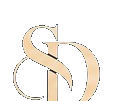
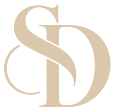
Take RSVP off the public site and fix the SD monogram
- churchRsvp.open is now false: the public homepage, invitation page and
  menus no longer show an RSVP, and POST /rsvp redirects home. Guests
  RSVP only on their private invitation (/i/CODE).
- The gold monogram PNG had the bottom of both letters cropped off. Both
  monograms are now rebuilt from the complete navy artwork: transparent
  D counter, stray speck removed, tight crop. img height attr matches.
- Smoke test now asserts there is no RSVP on the public pages.

Claude-Session: https://claude.ai/code/session_01CnJ3p6ptEkStoWQYyKLRUg

diff --git a/functions/test/smoke.js b/functions/test/smoke.js
@@ -31,19 +31,12 @@ const store = require('../src/store');
   assert(!home.includes('/find'), 'no invitation-code lookup on public page');
   assert.equal((await req('/find?code=AAAAAA')).status, 404);
 
-  // Public church RSVP + update by phone
+  // RSVP lives only on private invitations: none on the public site
+  assert(!/rsvp/i.test(home), 'no RSVP on public homepage');
+  assert(!/rsvp/i.test(await (await req('/invitation')).text()), 'no RSVP on public invitation page');
   r = await req('/rsvp', form({ name: 'Bisi Ade', phone: '0803 111 2222', attending: 'yes', party: '3' }));
-  assert.equal(r.status, 200);
-  assert((await r.text()).includes('saved your place'));
-  r = await req('/rsvp', form({ name: 'Bisi Ade', phone: '+234 803 111 2222', attending: 'yes', party: '2' }));
-  assert((await r.text()).includes('earlier reply was updated'));
-  r = await req('/rsvp', form({ name: '', phone: '' }));
-  assert.equal(r.status, 400);
-  r = await req('/rsvp', form({ name: 'Bot', phone: '1', website: 'spam' }));
-  assert.equal(r.status, 200);
-  const church = await store.publicRsvps();
-  assert.equal(church.length, 1, 'deduped by phone, bot ignored');
-  assert.equal(church[0].party, 2);
+  assert.equal(r.status, 303);
+  assert.equal((await store.publicRsvps()).length, 0, 'public RSVP is closed');
 
   // Admin
   assert.equal((await req('/admin')).status, 302);
@@ -88,12 +81,10 @@ const store = require('../src/store');
   const d = await r.json();
   const t = d.guests.find((x) => x.code === g.code);
   assert(t.openedAt && t.openCount === 2 && t.checkedInAt && t.rsvp === 'yes');
-  assert.equal(d.church.length, 1);
-  assert(d.activity.some((a) => a.type === 'church'));
+  assert.equal(d.church.length, 0);
   r = await req('/api/admin/export.csv', { headers: { cookie: admin } });
   assert((await r.text()).includes('Ade, Jnr'));
-  r = await req('/api/admin/church.csv', { headers: { cookie: admin } });
-  assert((await r.text()).includes('Bisi Ade'));
+  assert.equal((await req('/api/admin/church.csv', { headers: { cookie: admin } })).status, 200);
   r = await req('/calendar/church.ics');
   assert((await r.text()).includes('DTSTART:20261217T090000Z'));
   assert((await (await req('/robots.txt')).text()).includes('Disallow: /i/'));

diff --git a/functions/src/pages.js b/functions/src/pages.js
@@ -23,8 +23,8 @@ const sprig = (cls) => `<svg class="sprig ${cls}" viewBox="0 0 200 200" aria-hid
   ${[[140, 128], [146, 138], [134, 140]].map(([x, y]) => `<circle cx="${x}" cy="${y}" r="3" fill="#d2b07a"/>`).join('')}
 </svg>`;
 
-const mono = `<img class="mono" src="/img/monogram-gold.png" alt="Sarah and Damilare’s intertwined monogram" width="160" height="132">`;
-const monoNavy = `<img class="mono" src="/img/monogram-navy.png" alt="Sarah and Damilare’s intertwined monogram" width="160" height="132">`;
+const mono = `<img class="mono" src="/img/monogram-gold.png" alt="Sarah and Damilare’s intertwined monogram" width="160" height="154">`;
+const monoNavy = `<img class="mono" src="/img/monogram-navy.png" alt="Sarah and Damilare’s intertwined monogram" width="160" height="154">`;
 const rule = `<div class="rule" aria-hidden="true"><span>✦</span></div>`;
 
 // Line icons for the bottom bar

diff --git a/functions/src/config.js b/functions/src/config.js
@@ -60,8 +60,9 @@ module.exports = {
     // e.g. 'Please be seated by 9:45 AM.'
   ],
 
-  // Public RSVP for the church wedding. Set open: false to close it.
-  churchRsvp: { open: true, maxParty: 6 },
+  // Public RSVP for the church wedding. Off: RSVPs are only taken on private invitations (/i/CODE).
+  // Set open: true to bring the RSVP form back on the public site.
+  churchRsvp: { open: false, maxParty: 6 },
 
   // Gift registry on withjoy.com. Paste your registry link here.
   registryUrl: '',

diff --git a/README.md b/README.md
@@ -2,16 +2,16 @@
 
 | URL | Who | What |
 | --- | --- | --- |
-| `/` | **Public** | Church wedding website: 10 AM ceremony at RCCG Garden of Peace, directions, add-to-calendar, story, colours, open **church RSVP**, link to your **Joy gift registry**, contacts. No traditional-wedding details appear here. |
+| `/` | **Public** | Church wedding website: 10 AM ceremony at RCCG Garden of Peace, directions, add-to-calendar, story, colours, link to your **Joy gift registry**, contacts. No traditional-wedding details and no RSVP appear here. |
 | `/i/CODE` | **Private**, only people you send a link to | Traditional wedding & reception invitation with the guest's name, RSVP, QR **access card** and **driver meal card**. Not linked anywhere, `noindex`, blocked in `robots.txt`, unguessable 6-character codes. |
-| `/admin` | You two + planners | Invitation desk: traditional guest list, WhatsApp sending, sent → opened → RSVP → arrived tracking, CSV import/export, **church RSVP list** with headcount and export. |
+| `/admin` | You two + planners | Invitation desk: traditional guest list, WhatsApp sending, sent → opened → RSVP → arrived tracking, CSV import/export. (The church RSVP list stays empty while the public RSVP is off: `churchRsvp.open` in `config.js`.) |
 | `/checkin` | Ushers | Gate check-in for the traditional wedding: scan QR or search name. Ushers can't see the guest list. |
 
 ## Two domains
 
 | Domain | Shows |
 | --- | --- |
-| `sarahanddamilare.dabioye.com` (`BASE_URL`) | Public church-wedding site, church RSVP, `/admin` |
+| `sarahanddamilare.dabioye.com` (`BASE_URL`) | Public church-wedding site (no RSVP), `/admin` |
 | `oluwabioye.dabioye.com` (`INVITE_URL`) | Only personal invitations `/i/CODE`, access-card QR `/c/CODE` and the gate `/checkin`. Its front page just says "strictly by invitation". |
 
 One Firebase Hosting site serves both: the app looks at the domain of each request. Invitation links on the public domain redirect to the invite domain. If `INVITE_URL` is not set, everything runs on one domain (handy for `*.web.app` and local dev).
@@ -53,7 +53,7 @@ Sign in at `/admin` → **Edit website**. From your phone you can:
 - upload the couple photo, gallery photos and story photos (resized automatically)
 - replace the church and traditional invitation cards
 - write Our Story (moments with dates, text and photos; reorder or delete)
-- set the Joy registry link and message, RSVP deadline, notes for church guests
+- set the Joy registry link and message, RSVP deadline (shown on private invitations), notes for church guests
 - turn the wax-seal opening on or off
 
 Changes go live within about 15 seconds. `functions/src/config.js` still holds the fixed details (names, venues, times) and the defaults.
